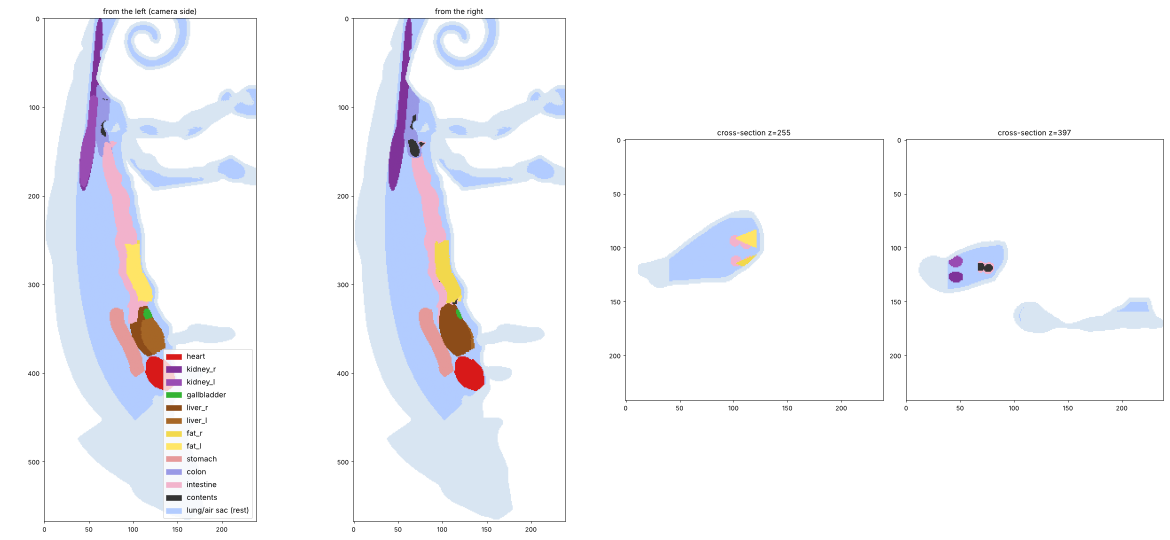
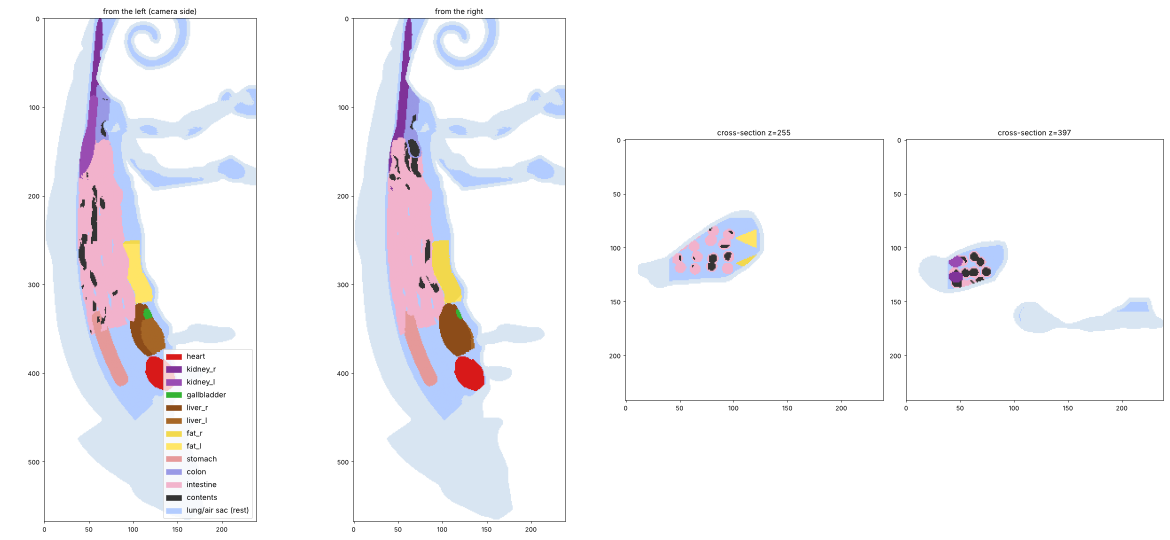
カメレオン: 体腔の臓器を参考写真の範囲へ広げる（保存標本では肺が縮む）
- organs.py: 胃を肝臓の背側へ、腸を 16 本の管で胴の尾側・背側を埋める（参考写真 5 枚の中央値 t 0.20–0.95、深さ 0–0.86）
- organs_mesh.py: 閉じない腸はぼかし直して間引く
- 色 01: 腸の吸光を割合でそろえて当て直す（3.62 / 4.17 / 5.33）、中身 0
- 出典（参考写真・Klaver 1973）と計画書 C の記録 6

Claude-Session: https://claude.ai/code/session_01TF4RLk5KhXAPd4WrhCdN5z

diff --git a/水槽/scenes/specimen/src/chameleon-stain.js b/水槽/scenes/specimen/src/chameleon-stain.js
@@ -96,24 +96,31 @@ export const STAINS = {
     // spectrum 0.571 / 0.861 / 1, gain 4.32.
     viscera: { spectrum: [0.571, 0.861, 1], gain: 0 },
     film: { spectrum: [1, 0.636, 0.34], gain: 0.1145 },
-    // The organs of the body cavity (blender/ct_body_pipeline/organs.py: placed and sized after Melero et al. 2023,
-    // Open Vet J 13:1071, the CT of 17 living veiled chameleons). They replace the one brown mass ("06" keeps it).
-    // Absorbance per model unit of organ crossed, added to the tissue around it. Fitted on photo 01's patches inside
-    // the trunk, by where along the trunk they lie (shoulder → hip = 0 → 1; ct_body_pipeline/fit_organs01.py):
-    //   C (t 0.35, brown mottle) less the screen's skin, film and bone there: 0.182 / 0.254 / 0.382, over the liver's
-    //     median path in that band (0.198)                                      → liver 0.92 / 1.29 / 1.93
-    //   B (t 0.60, brown mottle) 0.375 / 0.514 / 0.718 over the gut contents' path (0.065), A (t 0.85, dark grey)
-    //     0.571 / 0.574 / 0.674 over 0.077; their mean                            → contents 6.56 / 7.64 / 9.84
-    // By where across the trunk they lie the patches do not match: in 01 they sit nearer the spine, where the
-    // living animals' CT has the lungs (> 2/3 of the dorsal coelom, Melero 2023). Not settled.
-    // The organs 01 shows nothing of (heart, gallbladder, fat bodies, kidneys, the gut's wall) are given the cleared
-    // tissue's own absorbance (the skin's volume above, 0 / 0.109 / 0.230) once more: faint, provisional.
+    // The organs of the body cavity (blender/ct_body_pipeline/organs.py). Order head → tail and the sizes of heart,
+    // liver, gallbladder, fat bodies and kidneys after Melero et al. 2023 (Open Vet J 13:1071, the CT of 17 living
+    // veiled chameleons). The living animals' lungs fill > 2/3 of the dorsal coelom (ibid.); in preserved chameleons
+    // the lungs are often contracted (Klaver 1973, Beaufortia 20: 164–169), and in five photos of cleared-and-stained
+    // chameleons (docs/chameleon_ct_body/organs_ref_compare, sources in docs/references/chameleon/SOURCES.md) the
+    // visible mass lies at shoulder → hip t 0.20–0.95 and back → belly 0–0.86 (medians). So the gut (no size in the
+    // source) fills that range from behind the liver to the kidneys (provisional). They replace the one brown mass
+    // ("06" keeps it). Absorbance per model unit of organ crossed, added to the tissue around it, fitted on photo 01
+    // (ct_body_pipeline/fit_organs01.py), each patch less the screen's skin, film and bone there:
+    //   C (t 0.35, brown mottle) 0.182 / 0.254 / 0.382 over the liver's median path in that band (0.198)
+    //                                                                            → liver 0.92 / 1.29 / 1.93
+    //   A (t 0.85, dark grey) 0.571 / 0.575 / 0.674 and B (t 0.60, brown mottle) 0.375 / 0.514 / 0.718; mean
+    //     0.473 / 0.544 / 0.696. 01's trunk bends unlike the model's, so the same places on screen catch only the
+    //     mass's edge (gut path A 0.054, B 0.030); matched by share instead, as for the film and bone above: over the
+    //     median gut path of the screen's gut pixels (0.131)                     → gut 3.62 / 4.17 / 5.33
+    // The gut's value is given to the stomach, intestine and colon alike. The contents are not told apart from the
+    // gut in 01, so they add nothing beyond it (provisional).
+    // The organs 01 shows nothing of (heart, gallbladder, fat bodies, kidneys) are given the cleared tissue's own
+    // absorbance (the skin's volume above, 0 / 0.109 / 0.230) once more: faint, provisional.
     organs: {
       liver_r: [0.92, 1.29, 1.93], liver_l: [0.92, 1.29, 1.93],
-      contents: [6.56, 7.64, 9.84],
+      contents: [0, 0, 0],
       heart: [0, 0.109, 0.23], gallbladder: [0, 0.109, 0.23], fat_r: [0, 0.109, 0.23], fat_l: [0, 0.109, 0.23],
       kidney_r: [0, 0.109, 0.23], kidney_l: [0, 0.109, 0.23],
-      stomach: [0, 0.109, 0.23], intestine: [0, 0.109, 0.23], colon: [0, 0.109, 0.23],
+      stomach: [3.62, 4.17, 5.33], intestine: [3.62, 4.17, 5.33], colon: [3.62, 4.17, 5.33],
     },
   },
 };

diff --git a/blender/ct_body_pipeline/organs_ref_layout.py b/blender/ct_body_pipeline/organs_ref_layout.py
@@ -1,0 +1,34 @@
+import numpy as np, matplotlib, glob; matplotlib.use('Agg')
+import matplotlib.pyplot as plt, matplotlib.patches as pa
+from PIL import Image
+plt.rcParams['font.family']=['Noto Sans CJK JP','DejaVu Sans']
+TR='/root/.claude/projects/-home-claude/1d1858a9-9367-5399-8183-e4b2d1185ae5/tool-results/'
+fs=sorted(sum([glob.glob(TR+'*blob-1791886%d*'%d) for d in (5,6,7,8)],[]))
+S=[(13,(187,287,237,387),'写真01\nCreema 17230557',(0.20,0.95),(0.0,0.60),(150,230,400,480)),
+   (19,(55,40,145,200),'標本2\nCreema 17230551',(0.26,1.00),(0.0,1.00),None),
+   (22,(30,100,175,290),'標本4\n楽天 透明屋パク',(0.23,0.89),(0.03,0.86),None),
+   (27,(200,70,290,260),'ma-paku 出品\nフリル 1991114482',(0.15,0.85),(0.0,0.52),None),
+   (8,(110,60,290,115),'角のあるカメレオン\n（別種・種名不明）',(0.12,1.00),(0.25,0.94),None)]
+fig=plt.figure(figsize=(22,6.2))
+def occ(ax,fn,title):
+    z=np.load(fn); t=z['t']; f=z['frac']; lab=z['lab']
+    H,_,_=np.histogram2d(np.clip(f[lab>0],0,1),np.clip(t[lab>0],0,1),bins=[30,50],range=[[0,1],[0,1]])
+    Hc,_,_=np.histogram2d(np.clip(f,0,1),np.clip(t,0,1),bins=[30,50],range=[[0,1],[0,1]])
+    ax.imshow(np.where(Hc>0,H/np.maximum(Hc,1),np.nan),extent=[0,1,1,0],cmap='YlOrBr',vmin=0,vmax=1,aspect='auto')
+    ax.set_xlabel('肩 → 股（t）'); ax.set_ylabel('背（脊椎）→ 腹'); ax.set_title(title,fontsize=11)
+    cols=['red','blue','green','purple','gray']
+    for k,(i,r,name,tt,dd,crop) in enumerate(S):
+        ax.add_patch(pa.Rectangle((tt[0],dd[0]),tt[1]-tt[0],dd[1]-dd[0],fill=False,ec=cols[k],lw=1.8,ls='--',label=name.split('\n')[0]))
+ax=fig.add_axes([0.04,0.1,0.29,0.75]); occ(ax,'r/ms/cmp_coords.npz','② 前の版（色 = 臓器の割合）と参考写真の塊（破線、目測）'); ax.legend(fontsize=8,loc='center left',framealpha=0.9)
+ax=fig.add_axes([0.37,0.1,0.29,0.75]); occ(ax,'r/ms/cmp_coords2.npz','③ 直した版')
+ax=fig.add_axes([0.70,0.1,0.29,0.75]); ax.set_xlim(0,1); ax.set_ylim(1,0)
+ax.set_xlabel('肩 → 股（t）'); ax.set_ylabel('背（脊椎）→ 腹'); ax.set_title('④ 直した配置の考え方（模式図・仮）',fontsize=11)
+B=[('縮んだ肺\n（描かない）',0.0,0.15,0.0,0.6,'#eeeeee'),('心臓',0.02,0.13,0.62,0.95,'#d98'),('肝臓（右・左）',0.17,0.40,0.30,0.95,'#a86'),
+   ('胃',0.15,0.40,0.05,0.30,'#cb9'),('腸と中身\n（塊の主体）',0.40,0.81,0.05,0.80,'#986'),('脂肪体',0.40,0.60,0.80,1.0,'#ee9'),
+   ('腎臓',0.81,1.0,0.0,0.28,'#c88'),('結腸',0.81,1.0,0.30,0.65,'#875')]
+for n,a,b,c,d,col in B:
+    ax.add_patch(pa.Rectangle((a,c),b-a,d-c,fc=col,ec='k',lw=0.8)); ax.text((a+b)/2,(c+d)/2,n,ha='center',va='center',fontsize=9)
+ax.add_patch(pa.Rectangle((0.2,0.0),0.75,0.86,fill=False,ec='red',lw=2,ls='--'))
+ax.text(0.99,0.97,'赤破線: 写真 5 枚の中央値 t 0.20〜0.95・深さ 0〜0.86',color='red',ha='right',va='bottom',fontsize=9)
+fig.text(0.01,0.95,'②〜④ は胴を「肩→股」×「背→腹」の 0〜1 に引き伸ばした座標（個体と写真の大きさの違いを消すため）。臓器の割合: 前の版 体腔の 17%（残り 83% は「肺」として空けていた）→ 直した版 33%',fontsize=10)
+fig.savefig('organs_ref_layout.png',dpi=110)

diff --git a/blender/ct_body_pipeline/organs_mesh.py b/blender/ct_body_pipeline/organs_mesh.py
@@ -12,25 +12,26 @@ def m2ct(m): m=np.asarray(m,float)/k; return np.stack([-m[...,2],m[...,0],-m[...
 vnames=[f'v{kk:02d}' for kk in ks]; vid=[bn.index(n) for n in vnames]
 kt=cKDTree(AP)
 out={}; bones=sorted(set(vnames)); bidx={n:i for i,n in enumerate(bones)}
-FACES={'contents':16000,'intestine':20000}
+FACES={'contents':16000,'intestine':30000}
 for j,n in enumerate(names,1):
     m=L==j
     if m.sum()<20: print('skip',n); continue
-    F=nd.gaussian_filter(np.pad(m,3).astype(np.float32),1.0)
-    v,f,_,_=measure.marching_cubes(F,0.5)
-    e=np.sort(np.concatenate([f[:,[0,1]],f[:,[1,2]],f[:,[2,0]]]),1); _,cnt=np.unique(e,axis=0,return_counts=True)
-    if (cnt!=2).any():     # 管どうしが点で触れる所は、面が閉じない。少しぼかし直して離す
-        F=nd.gaussian_filter(np.pad(m,3).astype(np.float32),1.4); v,f,_,_=measure.marching_cubes(F,0.5)
-        e=np.sort(np.concatenate([f[:,[0,1]],f[:,[1,2]],f[:,[2,0]]]),1); _,cnt=np.unique(e,axis=0,return_counts=True)
-        print(n,'marching cubes non-manifold edges after re-blur',int((cnt!=2).sum()))
-    v=lo+(v-3)*VOX
-    v0,f0=v,f
-    for ag in (7,5,3):
-        sp=pyfqmr.Simplify(); sp.setMesh(v0.astype(np.float64),f0.astype(np.int32)); sp.simplify_mesh(target_count=FACES.get(n,4000),aggressiveness=ag,preserve_border=True,verbose=False)
-        v,f,_=sp.getMesh()
-        e=np.sort(np.concatenate([f[:,[0,1]],f[:,[1,2]],f[:,[2,0]]]),1); _,cnt=np.unique(e,axis=0,return_counts=True)
-        if (cnt==2).all(): break
-    else:
+    def closed(f):
+        e=np.sort(np.concatenate([f[:,[0,1]],f[:,[1,2]],f[:,[2,0]]]),1); _,cnt=np.unique(e,axis=0,return_counts=True); return bool((cnt==2).all())
+    ok=False
+    # 管どうしが点で触れる所は、面が閉じない（間引いた後も）。閉じなければ、少しぼかし直して離す（1.0 → 1.4 ボクセル）
+    for sig in (1.0,1.4):
+        F=nd.gaussian_filter(np.pad(m,3).astype(np.float32),sig)
+        v0,f0,_,_=measure.marching_cubes(F,0.5); v0=lo+(v0-3)*VOX
+        if not closed(f0): continue
+        for mul in (1,2,4):                         # 閉じなければ、残す面を 2 倍、4 倍にして試す
+            for ag in (7,5,3):
+                sp=pyfqmr.Simplify(); sp.setMesh(v0.astype(np.float64),f0.astype(np.int32)); sp.simplify_mesh(target_count=FACES.get(n,4000)*mul,aggressiveness=ag,preserve_border=True,verbose=False)
+                v,f,_=sp.getMesh()
+                if closed(f): ok=True; break
+            if ok: break
+        if ok: print(n,'blur',sig,'faces',len(f)); break
+    if not ok:
         v,f=v0,f0                                   # 間引くと閉じなくなるときは、間引かない
     e=np.sort(np.concatenate([f[:,[0,1]],f[:,[1,2]],f[:,[2,0]]]),1); _,cnt=np.unique(e,axis=0,return_counts=True); bad=int((cnt!=2).sum())
     # 外向きに（体積が正）

diff --git a/blender/ct_body_pipeline/fit_organs01.py b/blender/ct_body_pipeline/fit_organs01.py
@@ -1,6 +1,3 @@
-# 色 "01" の臓器の色を写真 01 から当てはめる（chameleon-stain.js STAINS["01"].organs）
-#   入力: 写真 01（リポジトリ外ではないが再配布しない）、organcal.py で chameleon.html?stain=01 から書き出した web/cal01.npz
-#   （通り道・膜の層・臓器ごとの通り道）と、lm.py の web/lm01.json（画面の関節窩・股関節）
 # 写真 01 の胴の中の色（A〜D）を、画面の臓器の通り道に当てはめる
 import numpy as np, json, math, sys
 from PIL import Image
@@ -57,3 +54,22 @@ for r,cls in ASSIGN.items():
 for cls,v in per.items(): abs_unit[cls]=np.mean(v,0).round(2).tolist()
 print('abs_unit',abs_unit)
 json.dump({'assign':ASSIGN,'abs_unit':abs_unit,'res':res},open('fit_organs01.json','w'),ensure_ascii=False,indent=1)
+
+# v2（臓器を参考写真の範囲へ広げた後）: 画面の同じ楕円に腸の通り道が来るので、A・B は重なりで解く
+#   各色で、excess = a_gut × 腸の通り道 + a_contents × 中身の通り道（どちらも 0 以上、最小二乗）。C は画面の同じ所に臓器が無いので、肝臓は上の t の帯の値のまま
+from scipy.optimize import nnls
+Mx=np.array([[res[r]['paths']['gut'],res[r]['paths']['contents']] for r in ('A','B')])
+ex=np.array([np.maximum(res[r]['excess'],0) for r in ('A','B')])
+sol=np.array([nnls(Mx,ex[:,c])[0] for c in range(3)]).T
+print('overlap fit  gut',sol[0].round(2),'contents',sol[1].round(2),'residual',(Mx@sol-ex).round(3).tolist())
+abs_unit['gut']=sol[0].round(2).tolist(); abs_unit['contents']=sol[1].round(2).tolist()
+json.dump({'assign':ASSIGN,'abs_unit':abs_unit,'res':res,'v2':'gut and contents from the overlap of A and B'},open('fit_organs01.json','w'),ensure_ascii=False,indent=1)
+
+# v2b: 写真と画面で胴の曲がりが違い、A・B の楕円は画面の塊の縁にかかる（腸の通り道の中央値が A 0.054・B 0.030 なのに、
+#   画面の腸のある画素全体の中央値は 0.131）。そこで場所ではなく割合でそろえる（膜・骨と同じやり方）:
+#   写真の塊（A と B の excess の平均）= 画面の腸の通り道の中央値 × a_gut
+c2=np.load('web/cal01.npz'); g=sum(np.maximum(c2['org_'+n],0) for n in ('stomach','intestine','colon')); gm=float(np.median(g[g>1e-4]))
+exm=np.mean([np.maximum(res[r]['excess'],0) for r in ('A','B')],0)
+abs_unit['gut']=(exm/gm).round(2).tolist(); abs_unit['contents']=[0,0,0]
+print('gut median path %.4f'%gm,'photo mass excess',exm.round(3),'-> gut',abs_unit['gut'])
+json.dump({'assign':ASSIGN,'abs_unit':abs_unit,'res':res,'gut_median_path':gm,'v2':'gut from the share-matched median (A,B mean over the screen gut median path)'},open('fit_organs01.json','w'),ensure_ascii=False,indent=1)

diff --git a/blender/ct_body_pipeline/organs.py b/blender/ct_body_pipeline/organs.py
@@ -91,23 +91,26 @@ def tube(path, rad):
 def pts(fu,fv,fr,n=400):
     t=np.linspace(0,1,n); return np.stack([fu(t),fv(t),fr(t)],1)
 st0=heart_end-1; st1=liver_end-2
-F['stomach']=tube(pts(lambda t: st0+(st1-st0)*t, lambda t: Vwu(st0+(st1-st0)*t)-9.9*s-2.0, lambda t: -1.0+0*t), 2.0)
+# 標本では肺が縮む（Klaver 1973, Beaufortia 20: 164–169）。胃は肝臓の背側の、縮んだ肺のすぐ腹側（深さ 0.2、仮。参考写真の塊の背の縁が脊椎に接する）
+F['stomach']=tube(pts(lambda t: st0+(st1-st0)*t, lambda t: 1.0+0.2*(Vwu(st0+(st1-st0)*t)-1.0), lambda t: -1.0+0*t), 2.0)
 # 腸: 尾腹側の、肝臓（頭側）・肺（頭背側）・腎臓と骨盤（尾背側）の間（Melero 2023）。腸の区分は CT でも分けられない（同）。
-#   ここでは、腹側 2/5 の深さ（frac ≥ 0.6、仮）の、肝臓の後ろから腎臓の手前までを、うねる 4 本の管（太さ 1.3 mm、仮）で埋める
+#   標本では肺が縮み（Klaver 1973）、参考写真 5 枚（docs/chameleon_ct_body/organs_ref_compare の出典）の塊は
+#   肩→股の t 0.20〜0.95、背→腹の深さ 0〜0.86（中央値）。腸はその範囲の、肝臓の後ろから腎臓の手前までを
+#   うねる 16 本の管（太さ 1.3 mm、仮）で、深さ 0.12〜0.66 の 4 層 × 左右 4 列に埋める（層と列の位置は仮）
 i0=liver_end-3; i1=kid_end-10
 # うねりは決まった種のなめらかな乱数（規則正しい波だと作り物に見える）。振れ幅と細かさは仮
 rng_i=np.random.default_rng(2023)
 def wander(n, amp, corr):
     w=nd.gaussian_filter1d(rng_i.standard_normal(n),corr,mode='nearest'); return amp*w/np.abs(w).max()
 paths=[]
-for dv in (2.2,4.8):
-    for dr in (-2.6,2.6):
+for fv in (0.12,0.30,0.48,0.66):
+    for dr in (-4.0,-1.3,1.3,4.0):
         n=600; uu_=np.linspace(i0,i1,n)
         # 管は前後にも折り返す（u にも小さな戻り）
         du=wander(n,2.5,25); dvv=wander(n,1.6,18); drr=wander(n,1.6,22)
-        paths.append(np.stack([uu_+du, Vwu(uu_)-dv+dvv, dr+drr],1))
+        paths.append(np.stack([uu_+du, 1.0+fv*(Vwu(uu_)-1.0)+dvv, dr+drr],1))
 F['intestine']=np.minimum.reduce([tube(p_,1.3) for p_ in paths])
-F['intestine']=np.where(frac>=0.6,F['intestine'],9.0)
+F['intestine']=np.where((frac>=0.03)&(frac<=0.88),F['intestine'],9.0)
 # 結腸: 腸の尾端から骨盤（総排泄腔）へ。結腸は中身があると見分けられる（Melero 2023）。太さ 2 mm と道筋は仮
 c0=i1-2; c1=kid_end
 F['colon']=tube(pts(lambda t: c0+(c1-c0)*t, lambda t: (Vwu(c0)-3.5)*(1-t)+(4.5)*t, lambda t: 0*t), 2.0)

diff --git a/docs/references/chameleon/SOURCES.md b/docs/references/chameleon/SOURCES.md
@@ -56,6 +56,7 @@
 - Klaver, C. J. J. (1977). Comparative lung-morphology in the genus *Chamaeleo* Laurenti, 1768 (Sauria: Chamaeleonidae). *Beaufortia* 25(327):167–199. https://repository.naturalis.nl/pub/505191/BEAU1977025327001.pdf
   - *Chamaeleo* の肺には、腹側縁と尾側縁から盲嚢（diverticula）が出る（p.167）。*C. calyptratus* は 7 本で、うち 2 本は二叉（p.169）
 - Klaver, C. J. J. (1973). Lung-anatomy: aid in Chameleon-taxonomy. *Beaufortia* 20(269). https://repository.naturalis.nl/pub/504814/BEAU1973020269001.pdf
+  - 保存された標本の肺はしばしば縮んでいる（"contracted"、pp.164, 166, 167, 169）。体腔の臓器を背側へ広げた根拠の一つ（`organs.py`、2026-10-13）
 - Cassel, N. (2014). The Basics of Reptile Radiology. VIN（獣医向けの講演録）. https://www.vin.com/doc/?id=7054882
   - トカゲの肺は嚢状で、肝臓の背側にあり、体腔の背壁に接する
 - Melero, A. et al. (2023). Computed tomography of the coelomic cavity in healthy veiled chameleons (*Chamaeleo calyptratus*) and panther chameleons (*Furcifer pardalis*). *Open Veterinary Journal* 13(9):1071–1081. https://www.openveterinaryjournal.com/?mno=113832
@@ -82,3 +83,17 @@
 - Melero, A. et al. (2023). *Open Vet. J.* 13(9):1071–1081. https://www.openveterinaryjournal.com/?mno=113832
   - 心臓は体腔のいちばん前、肋骨のかごの中。肝臓は心臓の後ろ・肺の腹側で腹壁に接する。肺は体腔の背側の 2/3 以上
 - 鎖骨・間鎖骨の有無: 出典は見つからず（未確認）
+
+## 参考写真（体腔の臓器の位置、2026-10-13）
+
+透明標本のカメレオンの写真。どれも販売品・作品の写真で透かしや著作権があるので、比べるためだけに見て、リポジトリには入れない（写真 01 と同じ）。
+見えた塊の範囲は目測（肩 → 股の t、背 → 腹の割合）。図は `docs/chameleon_ct_body/organs_ref_layout.png`（写真は含めない）。
+
+- 写真 01: カイセイ加工（透明屋パク）「透明標本 エボシカメレオン」 https://www.creema.jp/item/17230557/detail — t 0.20〜0.95、深さ 0〜0.60（オリーブ褐色、脊椎沿い）
+- 標本 2: 同 https://www.creema.jp/item/17230551/detail — t 0.26〜1.00、深さ 0〜1.00（濃い褐色の大きな塊）
+- 標本 3: 同 https://www.creema.jp/item/17230543/detail — 股関節から胴の中ほどまで、背側 1/2〜2/3（目測の数値は取っていない）
+- 標本 4: 同じ作り手の楽天の店（カイセイ加工（透明屋パク）、https://item.rakuten.co.jp/pakupaku/）の画像 compass1706244301・compass1706244314。商品ページの URL は控えていない — t 0.23〜0.89、深さ 0.03〜0.86
+- ma-paku の出品の画像 https://img.fril.jp/img/623705502/l/1991114482.jpg（商品ページの URL は控えていない。種名は画像から確かめていない）— t 0.15〜0.85、深さ 0〜0.52
+- 角のあるカメレオン（別種、種名不明）: Pinterest https://jp.pinterest.com/pin/558024210055732218/ （画像 https://i.pinimg.com/736x/ce/e4/08/cee40876e1a9a94e9131aa5f4f75e656.jpg、元の作り手は不明）— t 0.12〜1.00、深さ 0.25〜0.94（黄緑）
+- 内臓を抜いた（または見えない）もの: Nighttime Nicholas https://www.nighttimenicholas.com/past-pieces/2021/1/27/suspended-veiled-chameleon 、Chameleon Forums https://www.chameleonforums.com/threads/diaphonized-chameleon-pictures.195479/ の数枚、sorarikuworld https://sorarikuworld.up.seesaa.net/image/IMG_70221.jpg 。数に入れない
+- 上の 5 枚（標本 3 を除く）の中央値: t 0.20〜0.95、深さ 0〜0.86

diff --git a/blender/ct_body_pipeline/README.md b/blender/ct_body_pipeline/README.md
@@ -67,8 +67,8 @@
 | 38 | forefit.py（Blender、rig_chameleon_ct.py と同じフォルダ）→ fit_fore.py | → `fore*.json` → `fore_fit.json` | 前肢の向き（θ, φ）を写真 01 の肘・手首・指先に合わせて解く。頭の 2 点で骨格を 01 に重ねる。`POSE='<json>'` で試しの向きを渡して確かめる（2026-10-13） |
 | 39 | forefit.py（同上、後肢と背骨も書き出す）→ fit_hind.py | → `limbs*.json` → `hind_fit.json` | 後肢の向きを写真 01 の膝・足首・指先に合わせて解く。腰で重ね直す（倍率は頭、向きは腰の背骨、股関節の中点を 01 の股関節へ）（2026-10-13） |
 | 40 | fit_stain01.py <写真01.jpg> <p01.npy> <p01_film.npy> | → 組織ごとの吸光度 | 色の型 "01" を写真 01 から解く。画面の通り道と膜の層の量は `chameleon.html?stain=01` の `chameleonPage.paths()` / `film()` を書き出したもの（2026-10-13） |
-| 41 | organs_cav.py → organs.py → organs_mesh.py → pack_soft.py | pose_jar.npz、skin_posed.npz → `organs_cav.npz` → `organs_lab.npz` → `organs_rigged.npz` → `chameleon_body_soft.npz`（org_<名前>__） | 体腔の臓器。展示の姿勢の膜の内側を入れ物に、Melero et al. 2023 の配置と大きさで置き、面にして椎骨に重みを付け、静止の姿勢へ戻す。`organs_view.py` で配置の図（2026-10-13） |
-| 42 | organcal.py（headless Chromium）→ fit_organs01.py | `cal01.npz`、`lm01.json` → 臓器の色 | 色 "01" の臓器の色を写真 01 の斑から当てはめる（2026-10-13） |
+| 41 | organs_cav.py → organs.py → organs_mesh.py → pack_soft.py | pose_jar.npz、skin_posed.npz → `organs_cav.npz` → `organs_lab.npz` → `organs_rigged.npz` → `chameleon_body_soft.npz`（org_<名前>__） | 体腔の臓器。展示の姿勢の膜の内側を入れ物に、Melero et al. 2023 の前後の順と大きさで置き、面にして椎骨に重みを付け、静止の姿勢へ戻す。肺は縮んだとみなし（Klaver 1973）、胃は背側、腸は参考写真の塊の範囲（`organs_ref_layout.py` が図）を埋める。`organs_view.py` で配置の図（2026-10-13） |
+| 42 | organcal.py（headless Chromium）→ fit_organs01.py | `cal01.npz`、`lm01.json` → 臓器の色 | 色 "01" の臓器の色を写真 01 の斑から当てはめる。腸は A・B の平均を画面の腸の通り道の中央値でそろえる（2026-10-13） |
 | 33 | softvol2.py | → `soft2_vol.npz` | 軟部の体積を、肋骨を戻した空間へ移す（近い骨の動きの重み付き平均）。持ち主 = 戻した空間でいちばん近い骨 |
 | 34 | softmesh2.py（SOFT_WEIGHT_SIGMA_MM=2.0） | → `soft_rigged.npz` | 閉じた膜。つながってはいけない持ち主の間を体積のうちに削り（胴と手足は手足の側を 0.8 mm、同じ肢の隣の骨は関節から 2.5 mm より遠い所、尾は隣の椎骨とだけ）、ならして面にし、15 万面に減らしてから重みを付ける。面は外さない |
 | 35 | visceramesh.py | → `viscera_rigged.npz` | 体腔の内臓の一塊。胴の肋骨の凸包の内側・体軸より腹側・肺（空気の空洞）と骨の外・軟部の密度 0.3 以上の、いちばん大きな塊 |

diff --git a/docs/カメレオン透明標本_計画書_v1.0.md b/docs/カメレオン透明標本_計画書_v1.0.md
@@ -323,6 +323,16 @@ C の記録 5（2026-10-13、体腔の臓器。指摘「内臓が全然描写で
 - 合わない所: 写真 01 の斑は背骨寄りにある。論文（生きた動物）では背側は肺で、臓器は腹側。保存された標本では肺がしぼんで臓器の位置が変わる可能性があるが、出典は見つけていない。今は論文の配置のまま
 - 図: `docs/chameleon_ct_body/organs_layout.png`（臓器の配置。左から見た所・右から見た所・断面）、`organs_01_before_after.png`（色 01 の前後と、変えていない色 06）
 
+C の記録 6（2026-10-13、体腔の臓器の位置。指摘「全体的に臓器の位置が偏っています」）:
+- 原因: 記録 5 は生きた動物の CT（Melero 2023: 肺が体腔の背側の 2/3 以上）の配置で、臓器が腹側の帯に寄り、体腔の 83% を肺として空けていた
+- 参考写真: 透明標本のカメレオンの写真を集めた（出典と目測の値は `docs/references/chameleon/SOURCES.md` の「参考写真」）。内臓の見える 5 枚の塊は、肩 → 股の t 0.20〜0.95、背 → 腹の深さ 0〜0.86（中央値）。脊椎に接し、胴の尾側の半分が濃い。多くの標本は内臓を抜いてある
+- 文献: 保存された標本の肺はしばしば縮む（Klaver 1973, pp.164–169）
+- 直したこと（`organs.py`）: 心臓・肝臓・胆嚢・脂肪体・腎臓は論文の大きさと位置のまま。胃は肝臓の背側（深さ 0.2、仮）。腸（論文に大きさが無い）は 4 本から 16 本の管にし、深さ 0.12〜0.66 の 4 層 × 左右 4 列で、肝臓の後ろから腎臓の手前までを埋める（仮）。臓器は体腔の 17% → 33%、写真の範囲の中は 15% → 42%
+- `organs_mesh.py`: 腸を間引くと面が閉じないので、ぼかし 1.4 ボクセルで作り直してから間引く（60,000 面）
+- 色（"01"、`fit_organs01.py`）: 写真 01 と画面で胴の曲がりが違い、A・B の場所は画面では塊の縁にかかる。そこで割合でそろえた: A・B の平均 0.473 / 0.544 / 0.696 を、画面の腸の通り道の中央値 0.131 で割る → 胃・腸・結腸 3.62 / 4.17 / 5.33。中身は写真で腸と分けられないので 0（仮）。肝臓は記録 5 のまま。色 "06" は変えていない
+- 残る課題: 腸の管の 1 本ずつの形が少し見える（写真はもっとぼやけた塊）
+- 図: `docs/chameleon_ct_body/organs_ref_layout.png`（前の版・直した版の臓器の割合と写真の範囲、模式図。写真は入れない）、`organs_layout.png`（直した配置）、`organs_v2_before_after.png`（色 01 の前後）
+
 **決めること（プロデューサー）**
 
 - 染まり（A5）を描く場所は、次のどちらかにする
